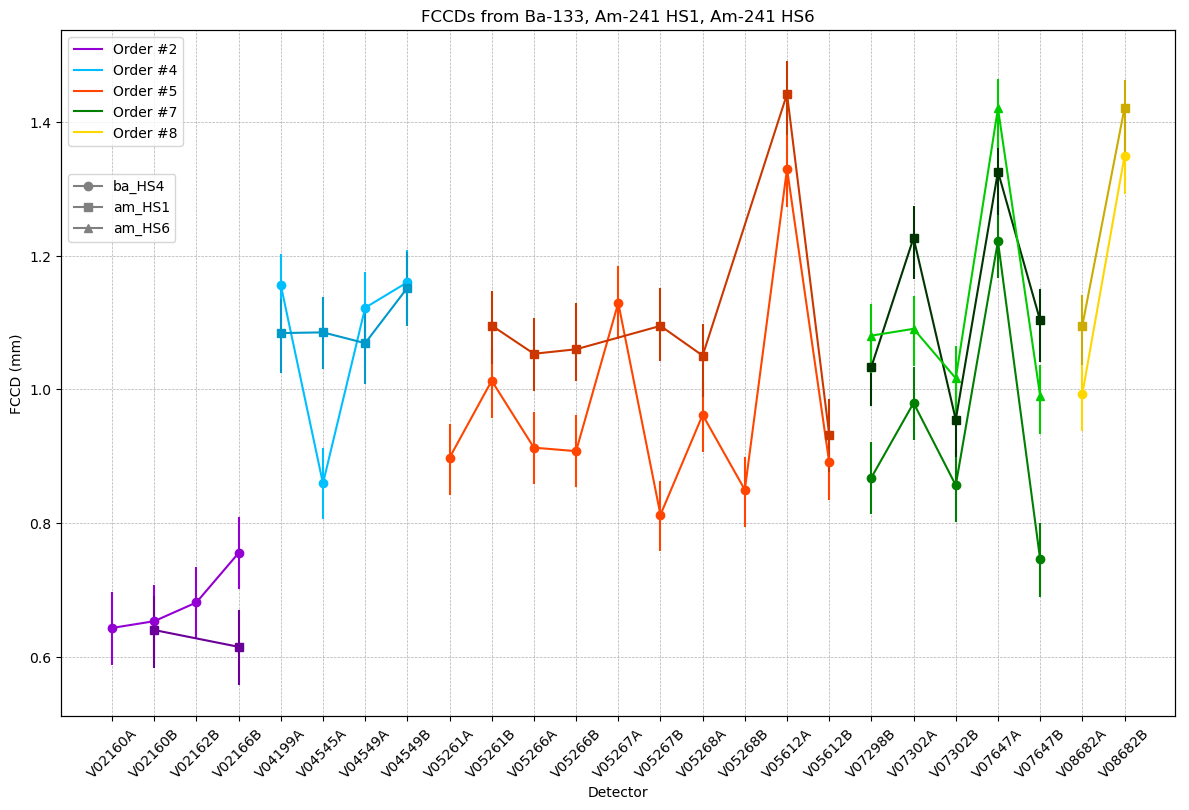
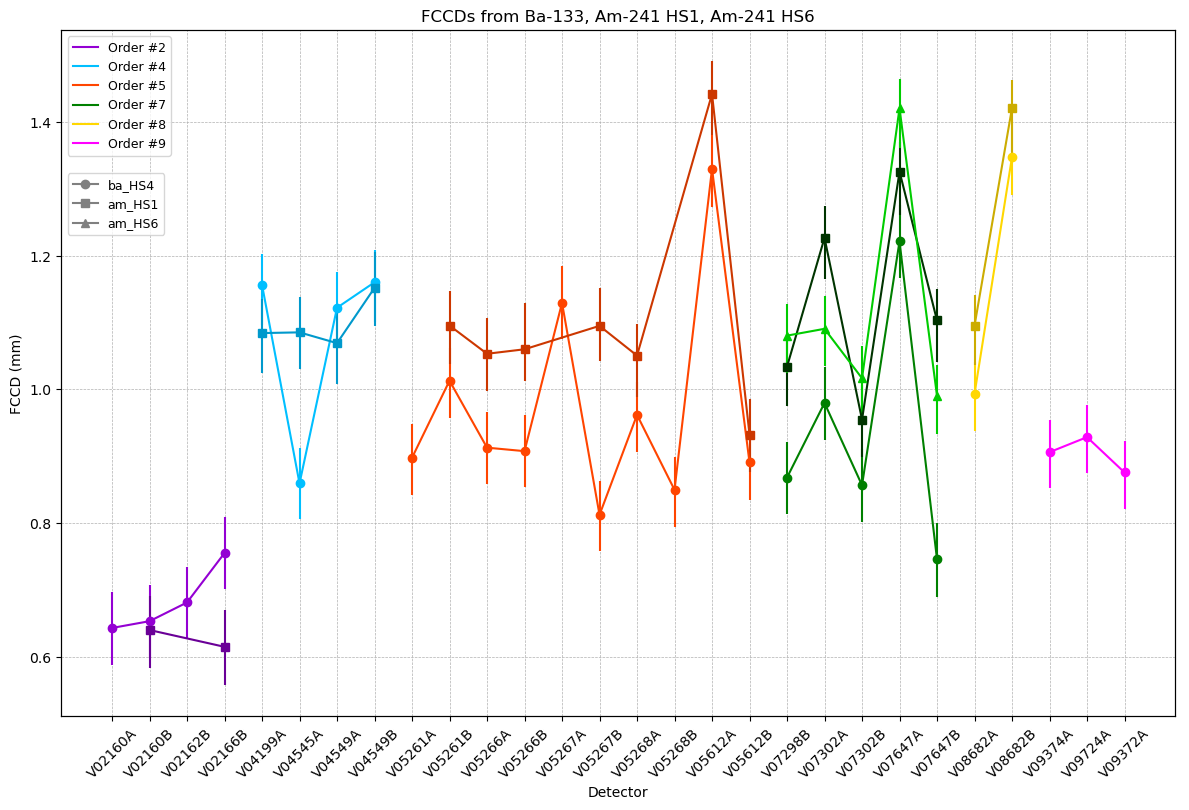
[update] added order 9 ba to comparison plots

diff --git a/Compare_FCCDs_Am_Ba.py b/Compare_FCCDs_Am_Ba.py
@@ -26,14 +26,14 @@ def main():
     detector_list = CodePath+"/detector_list.json"
     with open(detector_list) as json_file:
         detector_list_data = json.load(json_file)
-    order_list = [2,4,5,7,8]
+    order_list = [2,4,5,7,8,9]
 
     positions_list=CodePath+"/positions_am1_list.json"
     with open(positions_list) as json_file:
         positions_list_data=json.load(json_file)
 
     fig, ax = plt.subplots(figsize=(12,8))
-    colors_orders = {2:'darkviolet', 4:'deepskyblue', 5:'orangered', 7:'green', 8:'gold'}
+    colors_orders = {2:'darkviolet', 4:'deepskyblue', 5:'orangered', 7:'green', 8:'gold', 9:'magenta'}
     markers_sources = {"ba_HS4": "o", "am_HS1":"s", "am_HS6":"^"}
 
     detectors_all = []
@@ -77,6 +77,8 @@ def main():
             #Ba133
             if order == 8:
                 source_z = "88z"
+            elif order == 9:
+                source_z = "74z"
             else:
                 source_z = "78z"
             Ba133_FCCD_file = CodePath+"/Ba133/FCCD/FCCD_data_"+detector+"-ba_HS4-top-0r-"+source_z+"_"+smear+"_"+TL_model+"_fracFCCDbore"+str(frac_FCCDbore)+"_"+energy_filter+"_run"+str(run)+"_cuts.json"
@@ -165,8 +167,8 @@ def main():
         ax2.plot(np.NaN, np.NaN, marker=marker,c='grey',label=source)
     ax2.get_yaxis().set_visible(False)
 
-    ax.legend(loc='upper left', bbox_to_anchor=(0, 1))
-    ax2.legend(loc='upper left', bbox_to_anchor=(0, 0.8))
+    ax.legend(loc='upper left', bbox_to_anchor=(0, 1), prop={"size":9})
+    ax2.legend(loc='upper left', bbox_to_anchor=(0, 0.8), prop={"size":9})
 
     ax.tick_params(axis='x', labelrotation=45)
     ax.set_xlabel('Detector')
